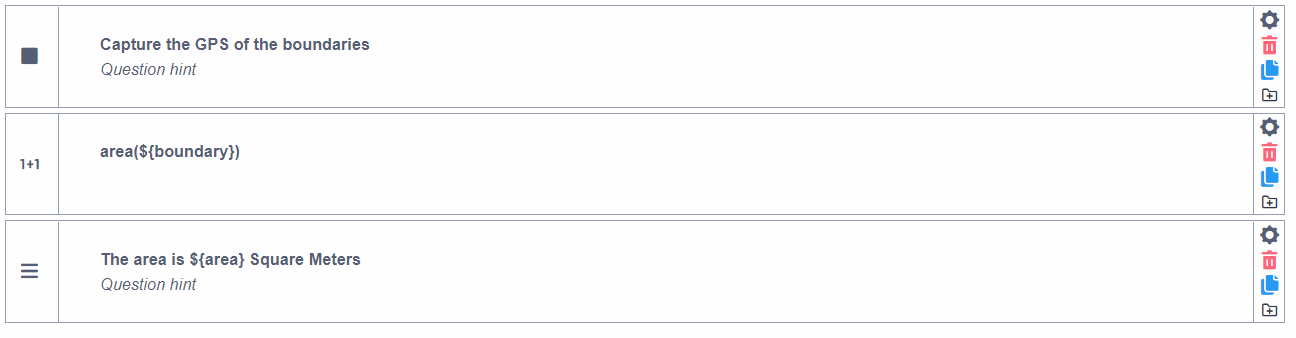
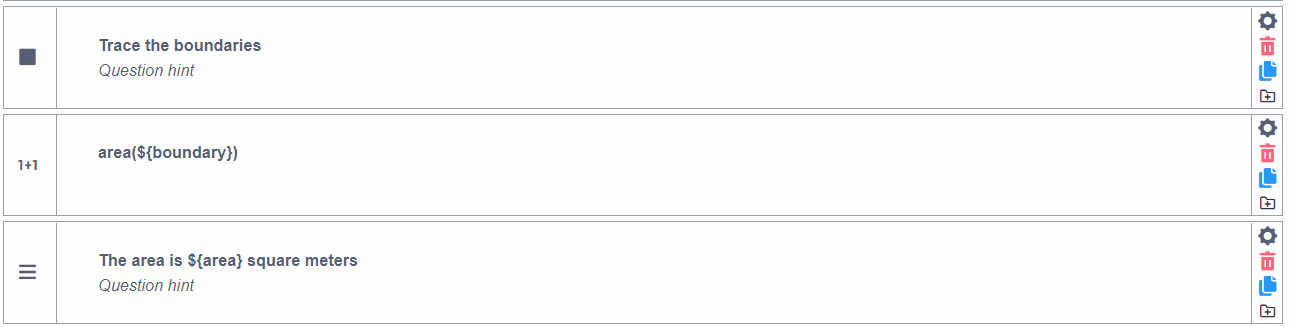
Revision 1

diff --git a/source/gps_questions.md b/source/gps_questions.md
@@ -1,45 +1,46 @@
 # GPS Question types
 
-KoboToolbox allows you to collect GPS coordinates as part of your data
-collection form. There are 3 GPS question types you can use, namely “Point”,
-“Line” and “Area”.
+In KoboToolbox, you can collect GPS coordinates as part of your data collection
+form. There are 3 GPS question types you can use, namely “Point”, “Line” and
+“Area”.
 
 Use a “Point” question type when you want to record a single GPS coordinate.
 This is perfect for questions where you need to show the location of a single
-feature on the earth’s surface such as a house, or a borehole.
+feature such as a house, or a borehole.
 
-Use a “Line” question type when you want to record multiple GPS points that form
-a line. This question type is best for collecting location data on features such
-as roads, tracks and rivers.
+Use a “Line” question type when you want to record multiple GPS points to trace
+a path. This question type can be used for collecting location data on features
+such as roads, tracks and rivers.
 
 The “Area” question type is used for collecting multiple GPS points that form
-the boundaries of a feature.
+the boundaries of a feature. You can use it, for example, to trace the
+boundaries of garden plots in a survey where you are enumerating land holdings.
 
 ## How to set up the “Point”, “Line” and “Area” question types
 
-### Setting up in FormBuilder
+### Setting up in formbuilder
 
 Adding GPS questions on the form is simple:
 
-- In the KoboToolbox Formbuilder, click the <i class="k-icon k-icon-plus"></i>
+- In the KoboToolbox formbuilder, click the <i class="k-icon k-icon-plus"></i>
   button to add a new question
-- Type the question text, for example “Capture the GPS of the housing unit”,
-  then click **ADD QUESTION** or press ENTER on your keyboard
+- Type the question text, for example “Capture the location of the housing
+  unit”, then click **ADD QUESTION** or press ENTER on your keyboard
 - Choose the question type (e.g. Point)
 
 ![Adding GPS questions](images/gps_questions/adding_gps_questions.gif)
 
-### Setting up in xlsform
+### Setting up in XLSform
 
-You can add point, line and area questions in XLSForm by using `geopoint`,
+You can add "Point", "Line" and "Area" questions in XLSForm by using `geopoint`,
 `geotrace` and `geoshape` question types respectively as in the following
 example:
 
-| type     | name   | label                                                       |
-| :------- | :----- | :---------------------------------------------------------- |
-| geopoint | point  | Collect the GPS coordinates of the house                    |
-| geotrace | road   | Collect the GPS coordinates of the road                     |
-| geoshape | garden | Collect the GPS coordinates of the boundaries of the garden |
+| type     | name   | label                                    |
+| :------- | :----- | :--------------------------------------- |
+| geopoint | point  | Capture the location of the housing unit |
+| geotrace | road   | Trace out the road's route               |
+| geoshape | garden | Trace the boundary of the garden         |
 | survey   |
 
 ## Appearance of “Point”, “Line” and “Area” question types in web forms and KoboCollect
@@ -50,9 +51,9 @@ example:
 
 ## Collecting GPS points in the background
 
-Besides adding GPS questions on the form, you can also enable the ability to
+Besides including GPS questions on the form, you can also enable the ability to
 collect GPS coordinates in the background as data is being collected. This is
-possible by turning on the “Audit” option in the Form Builder (Layout & Settings
+possible by turning on the “Audit” option in the formbuilder (Layout & Settings
 -> Meta questions) or by adding the `audit` meta question to your XLSForm. Learn
 more about how to do this [here](audit_logging.md).
 
@@ -70,16 +71,19 @@ the "Calculate" question type and the `distance()` function as shown below:
 
 <section class="note">
 
-In the example above, the question “Capture the GPS of the track” has been added
+In the example above, the question “Trace the route of the track” has been added
 as a “Line” question type. The “Data Column Name” in the question settings has
-been changed to “track”.
+been set to “track”.
 
-The question <code>distance(${track})</code> has been added as a “Calculate”
-question. Its Data Column Name has been changed to “distance”. The distance from
-the calculation will be in Meters.
+The question with label <code>distance(${track})</code> is a “Calculate”
+question type with a "Data Column Name" of “distance”. The distance from the
+calculation will be in meters.
 
 The “Note” question is optional and has been added with the purpose of
-displaying the calculated distance on the form.
+displaying the calculated distance within the form.
+
+You can learn more about the `distance()` function
+<a href="https://docs.getodk.org/form-operators-functions/#distance">here</a>
 
 </section>
 
@@ -87,44 +91,47 @@ In XLSForm, you can do the same as follows:
 
 | type      | name             | label                              | calculation        |
 | :-------- | :--------------- | :--------------------------------- | :----------------- |
-| geotrace  | track            | Capture the GPS of the track       |                    |
+| geotrace  | track            | Trace the route of the track       |                    |
 | calculate | distance         |                                    | distance(${track}) |
-| note      | display_distance | The distance is ${distance} Meters |                    |
+| note      | display_distance | The distance is ${distance} meters |                    |
 | survey    |
 
 ### Calculating area from “Area” questions
 
-You can calculate the area from an “Area” question type using the "Calculate"
-question type and the `area()` function in the formbuilder as shown below:
+You can calculate an area using the "Calculate" question type and the `area()`
+function as shown below:
 
 ![Calculate distance](images/gps_questions/calculate_area.png)
 
 <section class="note">
 
-In the example above, the question “Capture the GPS of the boundaries” has been
-added as an “Area” question type. The “Data Column Name” in the question
-settings has been changed to “boundary”.
+In the example above, the question “Trace the boundaries” has been added as an
+“Area” question type. The “Data Column Name” in the question settings has been
+set to “boundary”.
 
-The question <code>area(${boundary})</code> has been added as a “Calculate”
-question type. Its Data Column Name has been changed to “area”. The area from
-the calculation will be in square meters.
+The question with label <code>area(${boundary})</code> is a “Calculate” question
+type with Data Column Name “area”. The area from the calculation will be in
+square meters.
 
 The “Note” question is optional and has been added with the purpose of
-displaying the calculated area on the form.
+displaying the calculated area within the form.
+
+You can learn more about the `area()` function
+<a href="https://docs.getodk.org/form-operators-functions/#area">here</a>
 
 </section>
 
 In XLSForm, you can do the same, as follows:
 
-| type      | name         | label                                 | calculation       |
-| :-------- | :----------- | :------------------------------------ | :---------------- |
-| geoshape  | boundary     | Capture the GPS of the boundaries     |
-| calculate | area         |                                       | area(${boundary}) |
-| note      | display_area | The distance is ${area} Square Meters |                   |
+| type      | name         | label                             | calculation       |
+| :-------- | :----------- | :-------------------------------- | :---------------- |
+| geoshape  | boundary     | Trace the boundaries              |
+| calculate | area         |                                   | area(${boundary}) |
+| note      | display_area | The area is ${area} square meters |                   |
 | survey    |
 
 <p class="note">
-  Download an XLSForm with examples from this article
+  You can download an XLSForm with examples from this article
   <a
     download
     class="reference"
